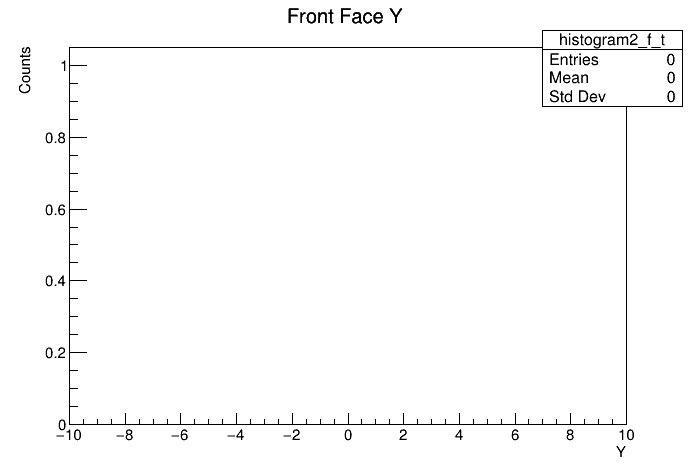
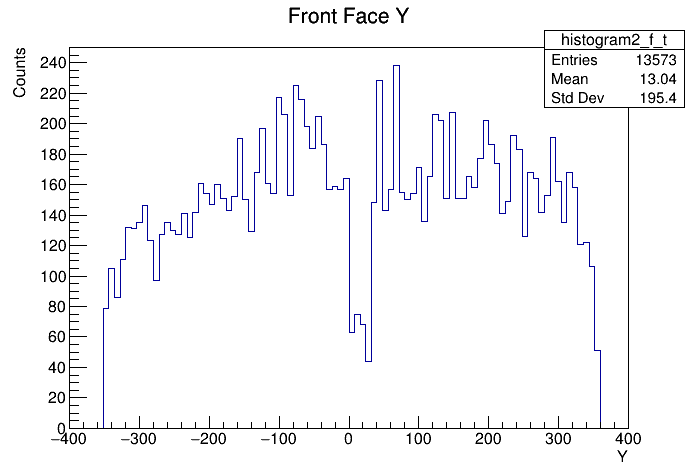
Time and position cut for beam spill with all data, it works.

diff --git a/CRT_Dataset2/AllDataTimeCut.C b/CRT_Dataset2/AllDataTimeCut.C
@@ -1,0 +1,79 @@
+#include "TChain.h"
+#include "TFile.h"
+#include "TH1F.h"
+#include "TH2F.h"
+#include "TCanvas.h"
+#include <iostream>
+
+void AllDataTimeCut() {
+	TChain chain("crtana/tree"); // Ensure "myTree" is the correct name of your TTree
+	chain.Add("/pnfs/sbnd/persistent/users/hlay/crt_comm_summer_2024/run13*_crtana.root"); // Replace with your file path pattern
+	TH1F *histogram1_f_t = new TH1F("histogram1_f_t", "Front Face X;X;Counts", 100, -400, 400);
+	TH1F *histogram2_f_t = new TH1F("histogram2_f_t", "Front Face Y;Y;Counts", 100, -400, 400);
+	TH1F *histogram4_f_t = new TH1F("histogram4_f_t", "Time", 100, 1520e3 , 1540e3);
+	TH2F *histogram3_f_t = new TH2F("histogram3_f_t", "Front Face XY;X;Y;Counts", 100, -400, 400, 100, -400, 400);
+    	TCanvas *c1_f_t = new TCanvas("c1_f_t", "Front Face X");
+	TCanvas *c2_f_t = new TCanvas("c2_f_t", "Front Face Y");
+	TCanvas *c3_f_t = new TCanvas("c3_f_t", "Front Face XY");
+	TCanvas *c4_f_t = new TCanvas("c4_f_t", "Time");
+
+	std::vector<double> *cl_sp_x = nullptr;
+    	std::vector<double> *cl_sp_y = nullptr;
+    	std::vector<double> *cl_sp_z = nullptr;
+    	std::vector<double> *cl_sp_ts1 = nullptr;
+    	std::vector<bool> *cl_has_sp = nullptr;
+	chain.SetBranchAddress("cl_has_sp", &cl_has_sp);
+    	chain.SetBranchAddress("cl_sp_x", &cl_sp_x);
+    	chain.SetBranchAddress("cl_sp_y", &cl_sp_y);
+    	chain.SetBranchAddress("cl_sp_z", &cl_sp_z);
+    	chain.SetBranchAddress("cl_sp_ts1", &cl_sp_ts1);
+
+	Long64_t nEntries = chain.GetEntries();
+
+	for (Long64_t i = 0; i < nEntries; ++i) {
+        	chain.GetEntry(i);
+		if (cl_has_sp == nullptr || cl_has_sp->size() == 0 || !cl_has_sp->at(0)) {
+            		continue;
+        	}
+		
+		for (size_t j = 0; j < cl_sp_x->size(); ++j) {
+            		double t1 = cl_sp_ts1->at(j);
+            		double x = cl_sp_x->at(j);
+            		double y = cl_sp_y->at(j);
+            		double z = cl_sp_z->at(j);
+			if (i % 10000 == 0) {
+				std::cout << "Entry " << i << ", Hit " << j << ": t1=" << t1 << ", x=" << x << ", y=" << y << ", z=" << z << std::endl;
+			}
+			
+			histogram4_f_t->Fill(t1);
+			
+			if (1529e3 < t1 && t1 < 1534e3) {
+				if (y > -350 && -370 < x && x < 370) {  // cut off feet of detector
+                    			if (-200 < z && z < -100) {
+                        			histogram1_f_t->Fill(x);
+                        			histogram2_f_t->Fill(y);
+                        			histogram3_f_t->Fill(x, y);
+                    			}
+                		}
+            		}
+        	}
+    	}
+
+
+	c1_f_t->cd();
+    	histogram1_f_t->Draw();
+    	c2_f_t->cd();
+    	histogram2_f_t->Draw();
+    	c3_f_t->cd();
+    	c3_f_t->SetLogz();
+    	histogram3_f_t->Draw("COLZ");	
+	c4_f_t->cd();
+	histogram4_f_t->Draw();
+
+	c1_f_t->SaveAs("Front_face_x_t_all.png");
+    	c2_f_t->SaveAs("Front_face_y_t_all.png");
+    	c3_f_t->SaveAs("Front_face_t_all.png");
+	c4_f_t->SaveAs("Time.png");
+
+}
+
